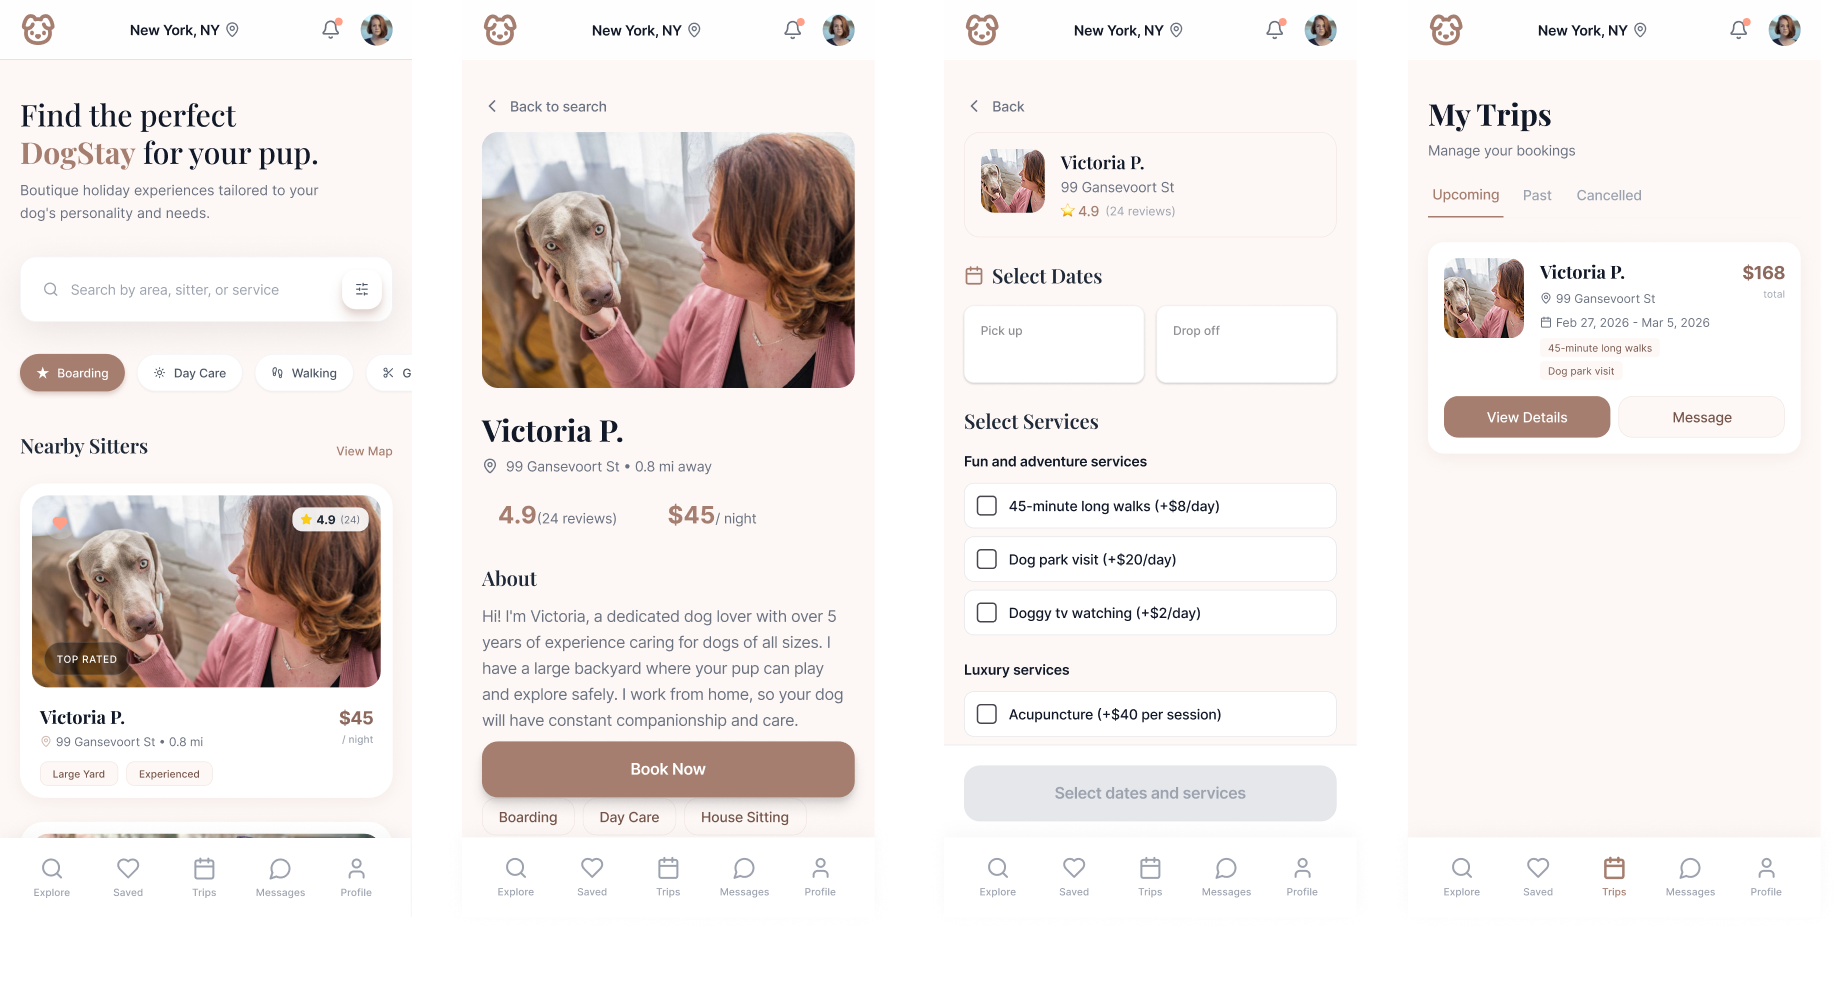
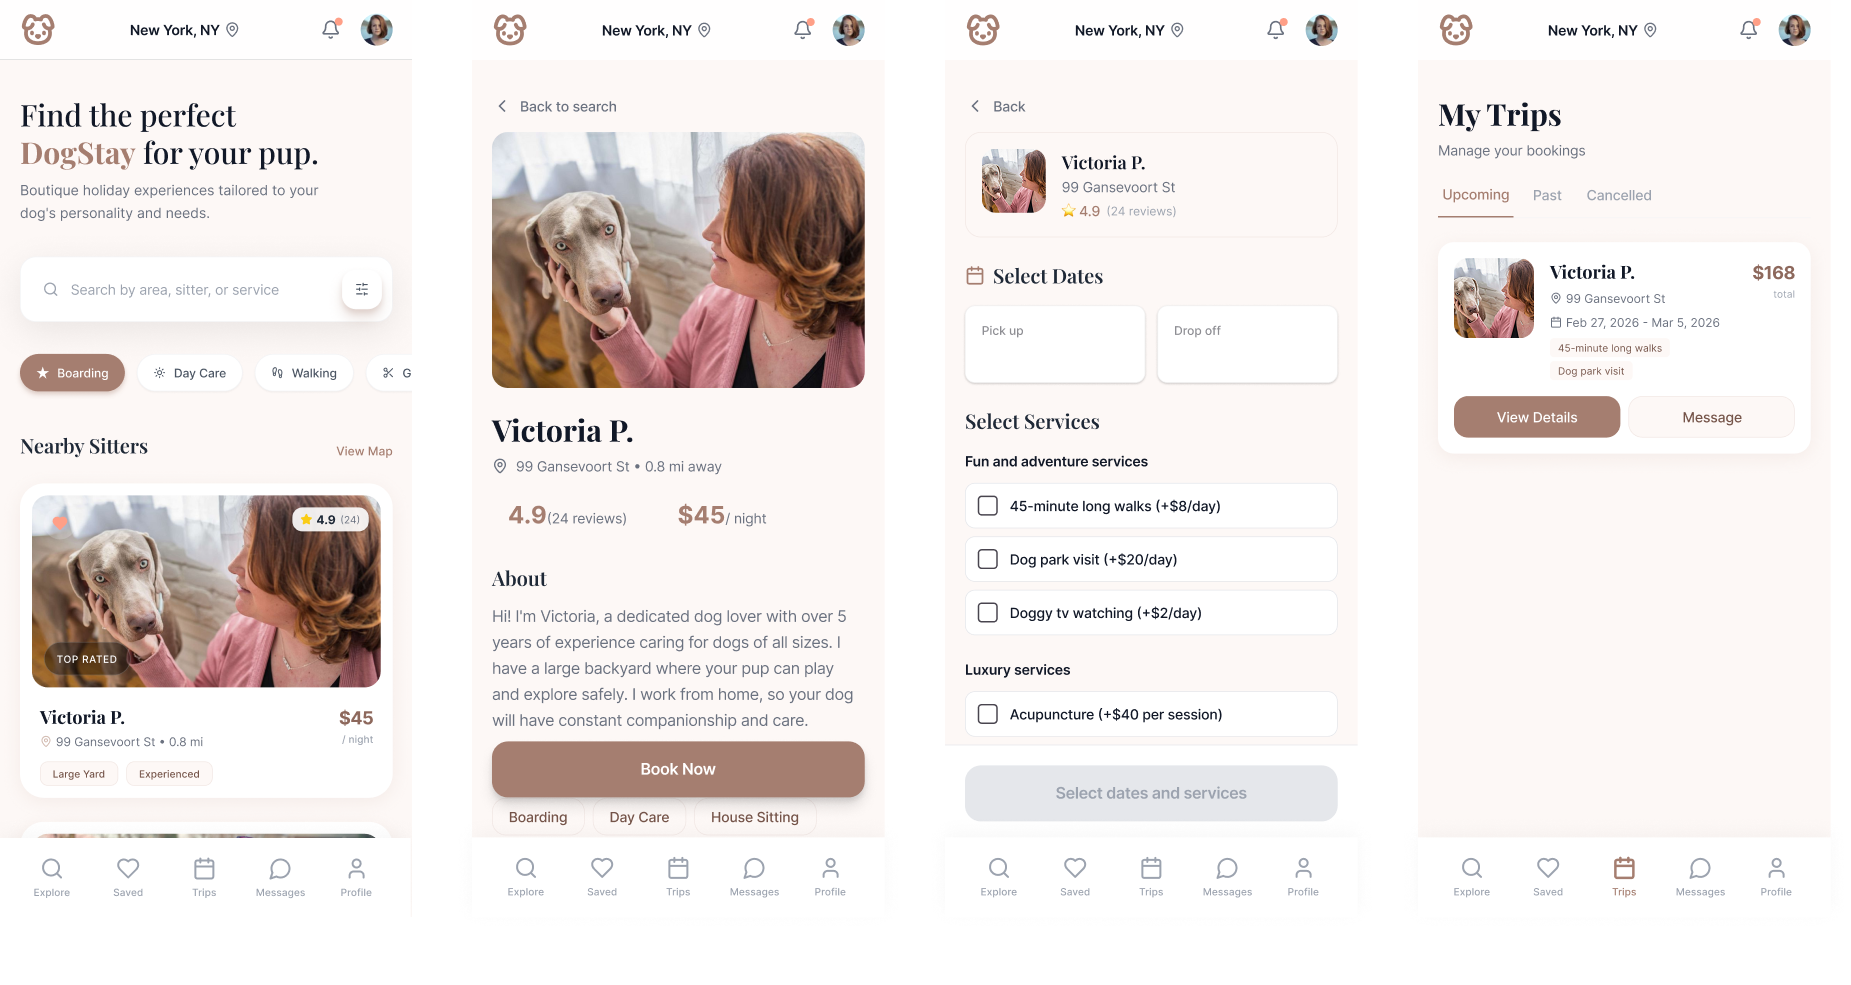
Update Dogstay

diff --git a/case-studies/dogstay.html b/case-studies/dogstay.html
@@ -128,6 +128,16 @@
                 <div style="text-align: center;">
                     <img class="zoomable" src="../images/dogstay/screens.png" alt="Dogstay UI concept screens" style="max-width: 100%; height: auto; cursor: pointer;">
                 </div>
+
+                <div style="display: flex; justify-content: space-around; max-width: 100%; margin: 32px auto 8px auto;">
+                    <p style="text-align: center; font-size: 14px; color: var(--text-gray); margin: 0; flex: 1;">Profile</p>
+                    <p style="text-align: center; font-size: 14px; color: var(--text-gray); margin: 0; flex: 1;">Saved</p>
+                    <p style="text-align: center; font-size: 14px; color: var(--text-gray); margin: 0; flex: 1;">Messages</p>
+                    <p style="text-align: center; font-size: 14px; color: var(--text-gray); margin: 0; flex: 1;">New message</p>
+                </div>
+                <div style="text-align: center;">
+                    <img class="zoomable" src="../images/dogstay/screens2.png" alt="Dogstay UI concept screens - Profile, Saved, Messages" style="max-width: 100%; height: auto; cursor: pointer;">
+                </div>
             </div>
         </section>
 

diff --git a/more-work.html b/more-work.html
@@ -89,8 +89,8 @@
                                 <span class="project-tag">Side Project</span>
                                 <span class="project-tag">Mobile</span>
                             </div>
-                            <h3 class="project-title">Dogstay</h3>
-                            <p class="project-description">Designing a dog boarding app that matches owners with compatible care based on lifestyle, accommodation, and services.</p>
+                            <h3 class="project-title">Dog boarding app for dog lovers</h3>
+                            <p class="project-description">Dogstay matches dog owners with compatible boarding care based on lifestyle, accommodation, and services.</p>
                             <a href="case-studies/dogstay.html" class="project-link">Read case study <span>→</span></a>
                         </div>
                     </article>
